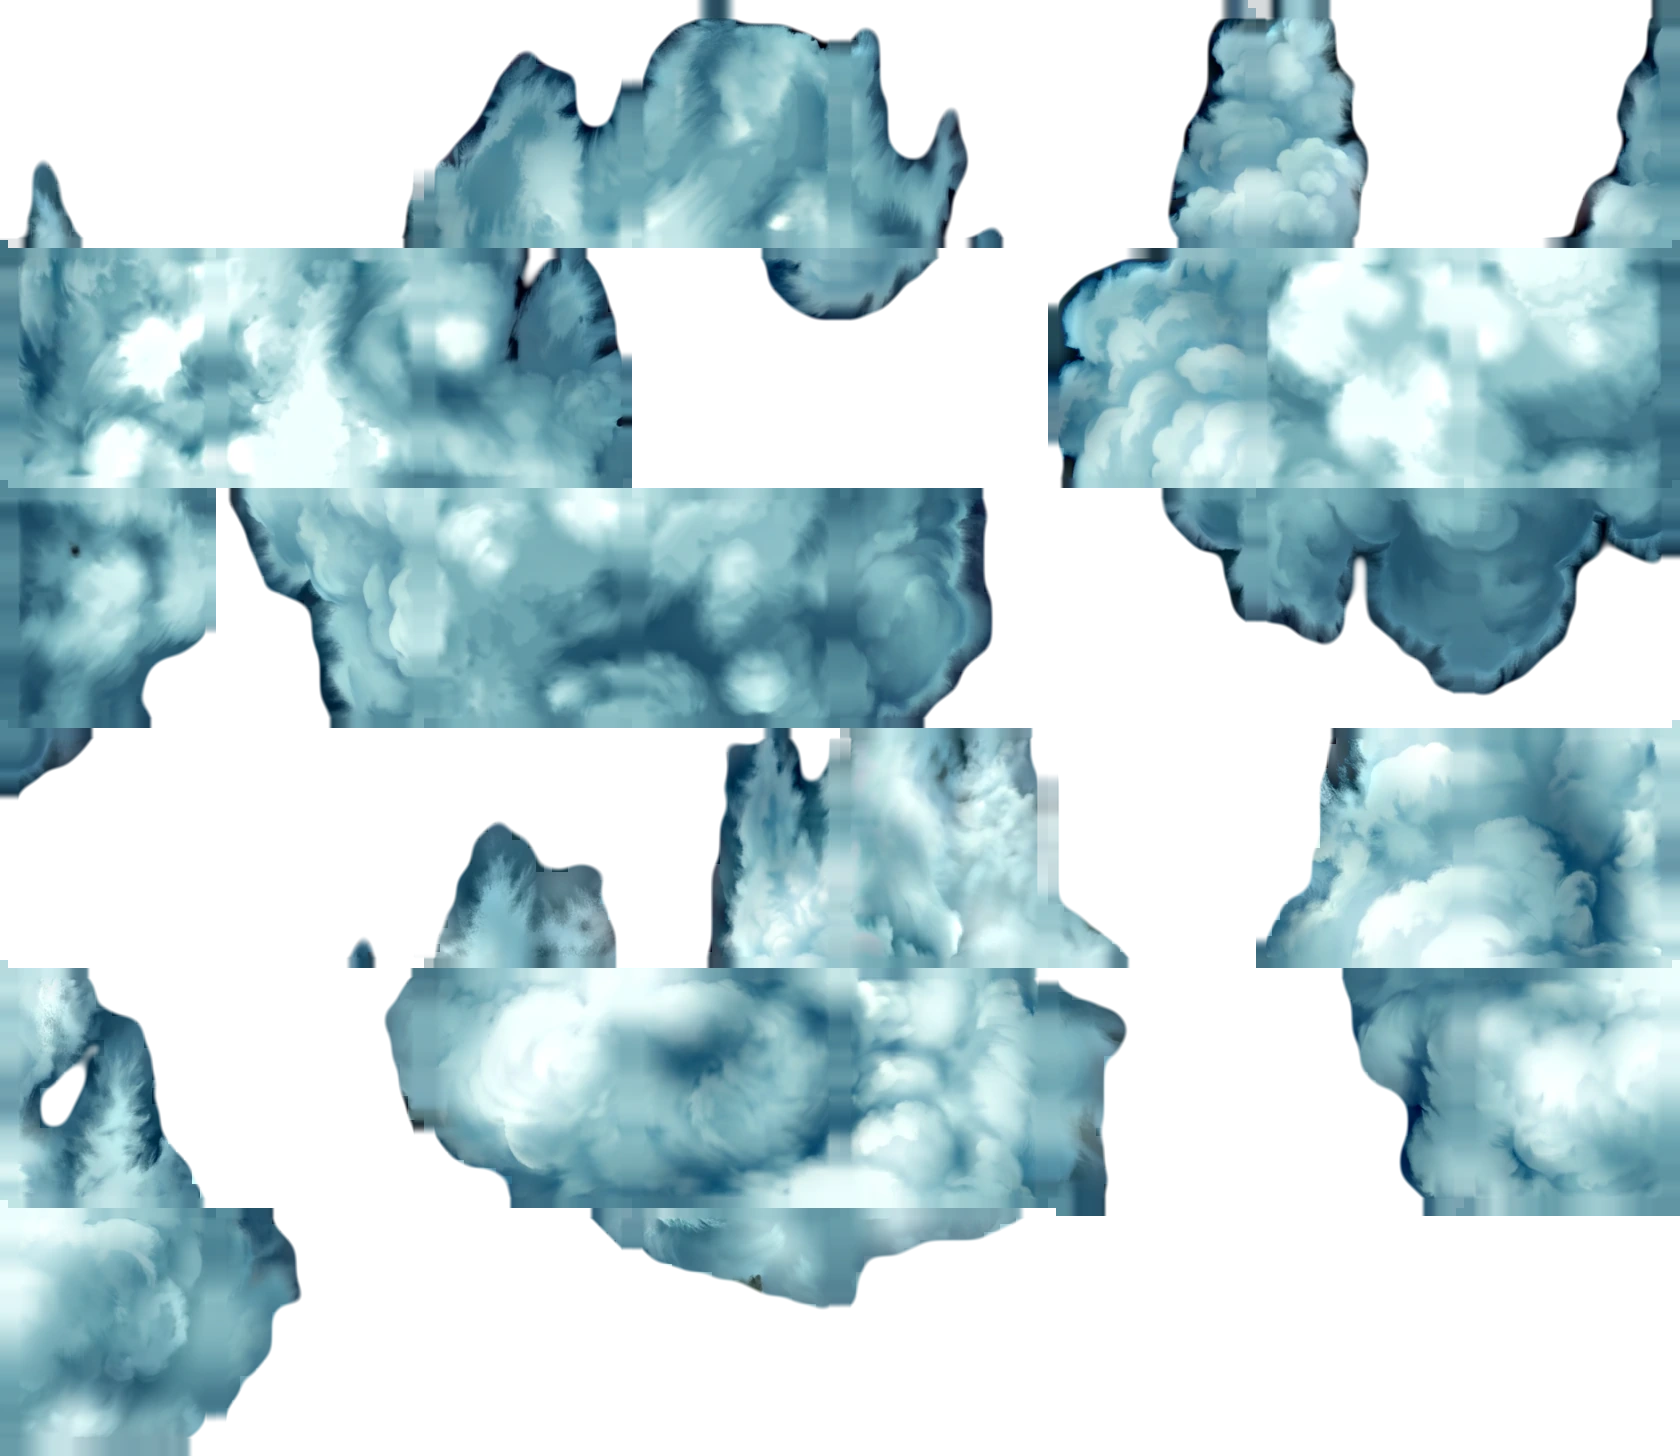
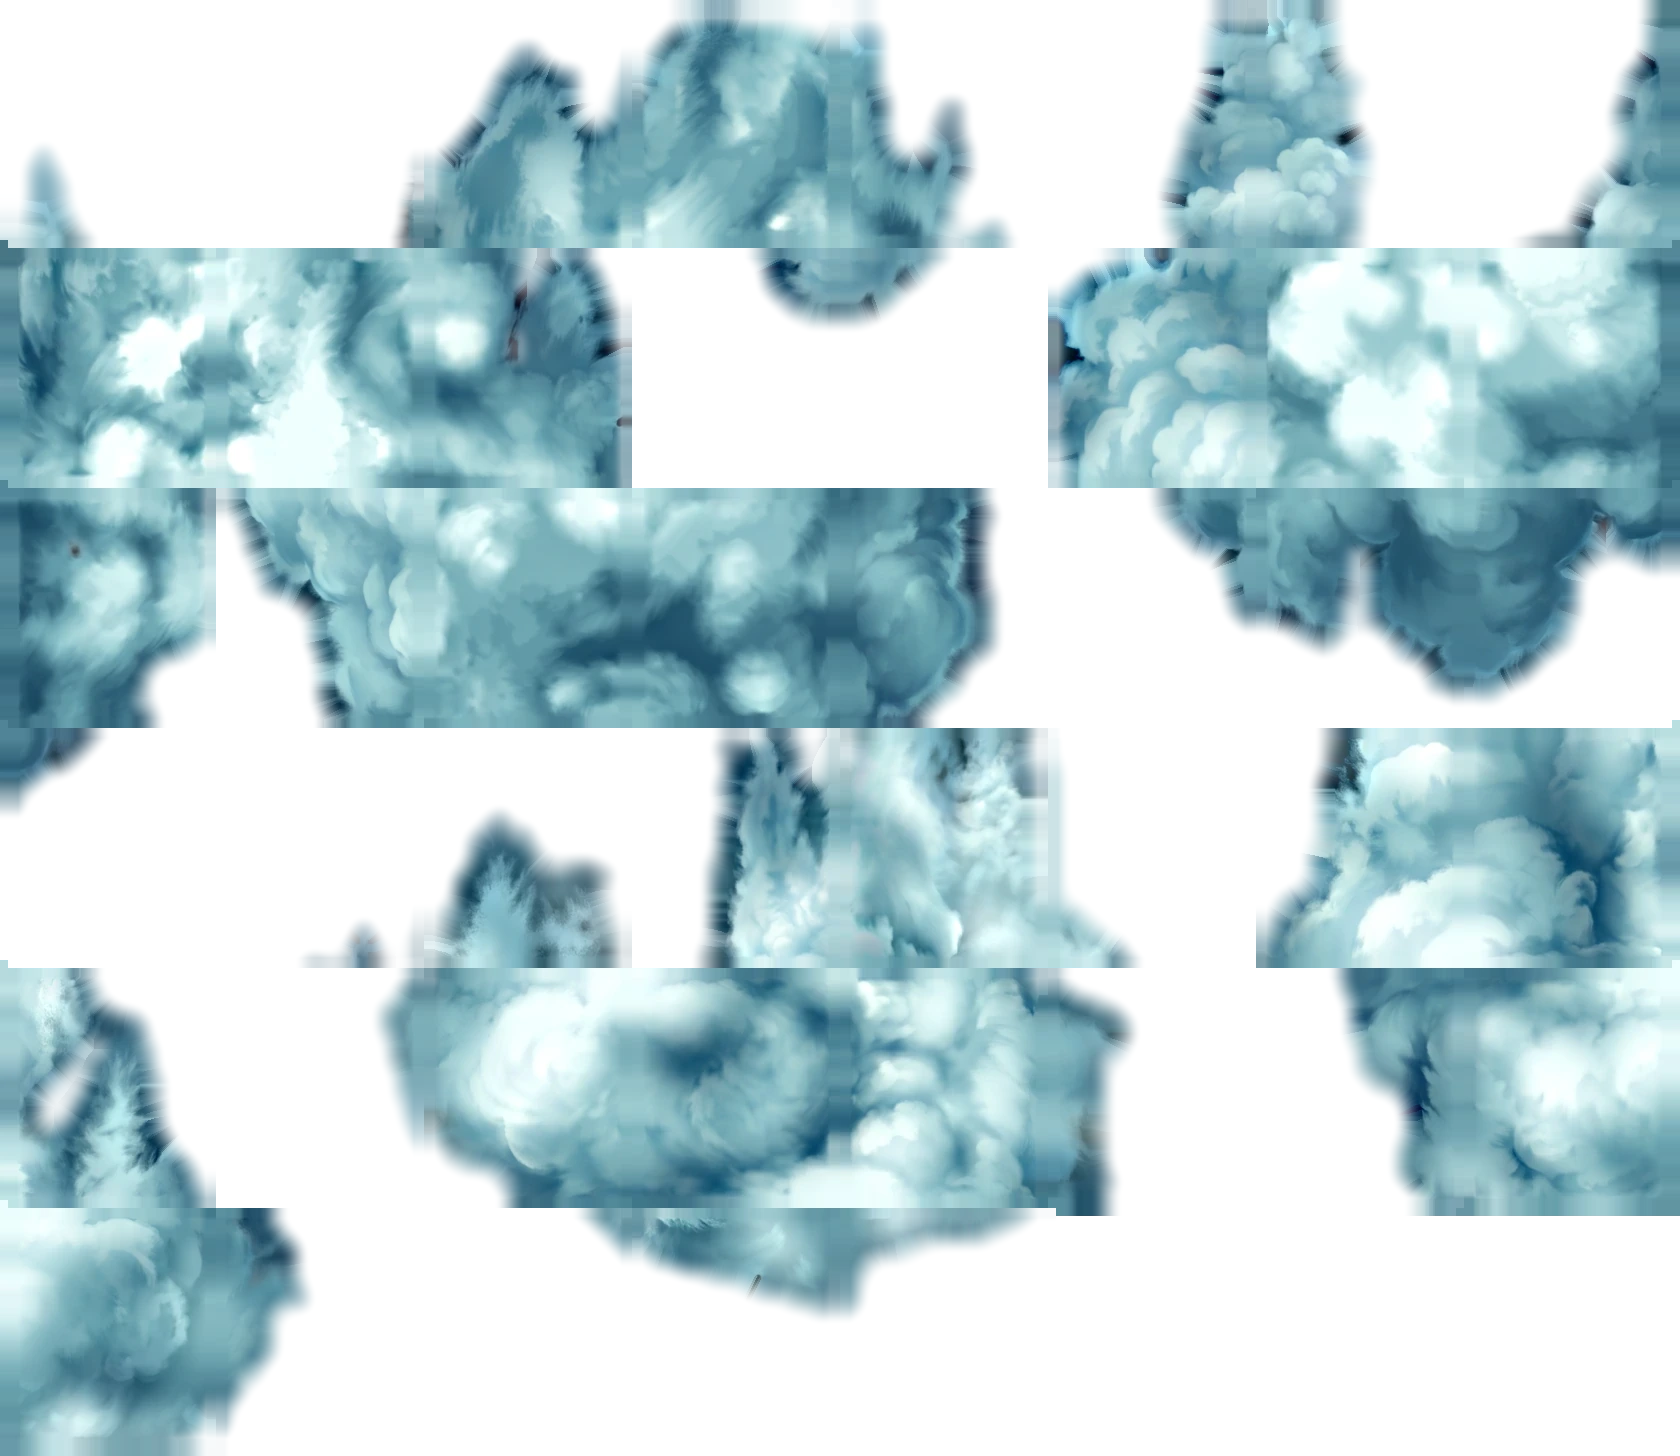
SOH JIN key shadow and SAVARA cloud edge: re-cut key alpha, feather layer-2 clouds, draw cutout tiles with their alpha (D132)
Claude-Session: https://claude.ai/code/session_01Tt7ZcrN2zwvXKGRkJHtp1H

diff --git a/src/render/remaster/terrainMaterial.ts b/src/render/remaster/terrainMaterial.ts
@@ -5,9 +5,9 @@
 //   the 4x ground (D34), receiving shadows;
 // - "blend" (draw_background_2_blend: TYRIAN's ice clouds, D45): translucent sheets at
 //   BLEND_ALPHA times the art's coverage, no depth write;
-// - "cutout" (background 3's islands and an opaque background 2 without models): the art's alpha
-//   cut at one half, writing depth and casting island-shaped shadows (a depth material that cuts the
-//   same way).
+// - "cutout" (background 3's islands and an opaque background 2 without models): drawn with the art's
+//   alpha (so the painted soft edge shows, D132) but writing depth like an opaque tile, and casting
+//   island-shaped shadows (a depth material that cuts the alpha at one half).
 //
 // Seam-free sampling: the texel position is clamped half a texel of the coarser mip level inside
 // the tile's rect (clampTerrainTexel), and the level chosen here (textureLod) is at most
@@ -42,7 +42,7 @@ export interface TerrainMaterialOptions {
 }
 
 export const TERRAIN_RELIEF = 1.2;
-/** The cutout kinds' alpha threshold. */
+/** The alpha threshold of the cutout kind's shadows. */
 const CUT = 0.5;
 
 const L = PALETTE_LUT_SIZE;
@@ -150,7 +150,7 @@ export function terrainMaterial(
     roughness: 0.9,
     metalness: 0,
     envMapIntensity: 0.25,
-    transparent: blended,
+    transparent: blended || kind === "cutout",
     depthWrite: !blended,
     userData: { outlineParameters: { visible: false } },
   });
@@ -195,7 +195,7 @@ float lod = terrainLod();
 vec4 tex = terrainSample(vTileTexel, lod);
 float cover = tex.a;
 vec3 painted = ${premultiplied ? "tex.rgb / max(cover, 1e-4)" : "tex.rgb"};
-${kind === "cutout" ? `if (cover < ${CUT.toFixed(2)}) discard;` : ""}
+${kind === "cutout" ? `if (cover < 0.004) discard;\ndiffuseColor.a = cover;` : ""}
 ${blended ? `if (cover < 0.004) discard;\ndiffuseColor.a = ${(opts.blend ?? 0.55).toFixed(3)} * cover;` : ""}
 diffuseColor.rgb *= terrainPalette(painted, vPassY, vScreenWater);
 vec2 reliefSlope = vec2(0.0);

diff --git a/src/render/drawListRenderer.ts b/src/render/drawListRenderer.ts
@@ -1124,6 +1124,7 @@ export class DrawListRenderer {
     const kind: TerrainKind = d.layer === 0 ? "ground" : blend ? "blend" : "cutout";
     const pool = this.hdPool(t.texture, kind, tileset!.scale, frame);
     if (blend) pool.mesh.renderOrder = blendSheetOrder(d.pass);
+    else if (kind === "cutout") pool.mesh.renderOrder = CUTOUT_ORDER;
     const s = pool.next(frame);
     const e = pool.extra.array as Float32Array;
     e[s * 2] = t.x;
@@ -1625,6 +1626,12 @@ function localBox(source: THREE.Object3D): THREE.Box3 {
 function blendSheetOrder(pass: Pass): number {
   return pass === Pass.Background2Top ? 1 : -1;
 }
+
+/**
+ * A "cutout" terrain tile is drawn with its soft alpha edge (D132), so it is translucent to three.js: before
+ * every other translucent draw (blend sheets, the flat sprite art, explosions are all above it).
+ */
+const CUTOUT_ORDER = -2;
 
 function groundQuad(): THREE.BufferGeometry {
   const g = new THREE.BufferGeometry();

diff --git a/tools/terrain_hd.py b/tools/terrain_hd.py
@@ -1329,7 +1329,8 @@ def alpha_from_level(lev: np.ndarray, ramp: float = ALPHA_RAMP) -> np.ndarray:
 
 
 def solve_alpha(T, layer: int, inv_tiles: dict, tiles, models: list[dict], min_pairs: int = ALPHA_MIN_PAIRS,
-                lam: float = LAMBDA, band_lo: float = BAND_LO, band_hi: float = BAND_HI, held=()) -> dict[int, np.ndarray]:
+                lam: float = LAMBDA, band_lo: float = BAND_LO, band_hi: float = BAND_HI, held=(),
+                smooth: float = ALPHA_SMOOTH, ramp: float = ALPHA_RAMP) -> dict[int, np.ndarray]:
     """Alpha (0..1) for each tile in `tiles` on layer 1-2, seamless across the levels' pairs: each tile's
     level field (alpha_level) has its edge strips solved jointly like the colour (solve_strips) over
     the pairs the levels' maps have at least `min_pairs` times, and moved onto them (apply_strips). A
@@ -1339,15 +1340,15 @@ def solve_alpha(T, layer: int, inv_tiles: dict, tiles, models: list[dict], min_p
     left out so a lone pairing of an empty edge with a full one doesn't drag cloud into the gap.
     `held`: tiles that keep their alpha (a merge's kept tiles, D83): their own level fields are held
     fixed, so the new tiles' edges are pulled onto them."""
-    off = 128.0  # apply_strips clips to 0..255; the level is within +-3 ALPHA_SMOOTH
-    lev = {n: (alpha_level(T, layer, n, inv_tiles[str(n)]["usual"]) + off)[..., None] for n in tiles}
-    fixed = {n: (alpha_level(T, layer, n, inv_tiles[str(n)]["usual"]) + off)[..., None]
+    off = 128.0  # apply_strips clips to 0..255; the level is within +-3 smooth (so smooth <= 40)
+    lev = {n: (alpha_level(T, layer, n, inv_tiles[str(n)]["usual"], smooth) + off)[..., None] for n in tiles}
+    fixed = {n: (alpha_level(T, layer, n, inv_tiles[str(n)]["usual"], smooth) + off)[..., None]
              for n in held if n not in lev and str(n) in inv_tiles}
     if band_lo > 0 or band_hi > 0:
         pairs = Counter({k: c for k, c in all_pairs(T.levels, layer, models, set(lev) | set(fixed)).items() if c >= min_pairs})
         strips = solve_strips(lev, pairs, lam, fixed=fixed or None)
         lev = {n: apply_strips(v, {side: strips[(n, side)] for side in OPPOSITE}, band_lo, band_hi) for n, v in lev.items()}
-    return {n: alpha_from_level(v[..., 0] - off) for n, v in lev.items()}
+    return {n: alpha_from_level(v[..., 0] - off, ramp) for n, v in lev.items()}
 
 
 def smoothstep(e0: float, e1: float, x: np.ndarray) -> np.ndarray:
@@ -1784,10 +1785,24 @@ def set_alpha(T, layer: int, inv_tiles: dict, done: dict[int, np.ndarray], model
               held=()) -> None:
     """Layers 1-2: each tile's alpha from solve_alpha (over all the levels' pairs; the `held` tiles,
     a merge's kept ones, pull the new tiles' edges and stay as they are), colour bled under it afresh."""
-    alphas = solve_alpha(T, layer, inv_tiles, done, models, args.alpha_min_pairs, args.lam, args.band_lo, args.band_hi, held)
+    alphas = solve_alpha(T, layer, inv_tiles, done, models, args.alpha_min_pairs, args.lam, args.band_lo, args.band_hi, held,
+                         getattr(args, "alpha_smooth", ALPHA_SMOOTH), getattr(args, "alpha_ramp", ALPHA_RAMP))
+    inset = getattr(args, "rim_inset", 0)
     for n, img in done.items():
+        if inset:
+            img[..., :3] = bleed(img[..., :3], inside_alpha(img[..., 3] / 255, inset))
         img[..., :3] = bleed(img[..., :3], alphas[n])
         img[..., 3] = alphas[n] * 255
+
+
+def inside_alpha(alpha: np.ndarray, inset: int) -> np.ndarray:
+    """`alpha` eroded by `inset` texels (a tile's edges count as inside: the cloud goes on in the next tile):
+    the part of the painting whose colour is kept when a wider soft edge is bled out of it (rim_inset), so
+    the original's dark outline colour under the old edge doesn't show through the new one."""
+    from scipy import ndimage
+
+    core = ndimage.binary_erosion(alpha > 0.98, iterations=inset, border_value=1)
+    return core.astype(np.float32)
 
 
 def cmd_realpha(args) -> None:
@@ -1805,8 +1820,9 @@ def cmd_realpha(args) -> None:
     if man is None:
         raise SystemExit(f"no atlas in {out_dir}")
     models = load_models(T.shapes_file)
+    only = {int(x) for x in args.layers.split(",")} if args.layers else None
     for layer, tiles in sorted(atlas.items()):
-        if layer == 0:
+        if layer == 0 or (only and layer not in only):
             continue
         inv_tiles = inv["layers"][str(layer)]["tiles"]
         done = {n: np.concatenate([bleed(t[..., :3], t[..., 3] / 255), t[..., 3:]], -1) for n, t in tiles.items() if str(n) in inv_tiles}
@@ -2408,6 +2424,11 @@ def main(argv: list[str] | None = None) -> None:
         p_.add_argument("--alpha-min-pairs", type=int, default=ALPHA_MIN_PAIRS, help=f"map pairs needed before two tiles' alpha edges are pulled together (default {ALPHA_MIN_PAIRS})")
     ra.add_argument("--out", default=str(ROOT / "public/art/terrain"), help="atlas root (default public/art/terrain)")
     ra.add_argument("--lossless", action="store_true", help="lossless WebP (default quality 92)")
+    ra.add_argument("--layers", help="only these layers, e.g. 2 (default: 1 and 2)")
+    ra.add_argument("--alpha-smooth", type=float, default=ALPHA_SMOOTH, help=f"texels the contour is smoothed at (default {ALPHA_SMOOTH}; at most 40)")
+    ra.add_argument("--alpha-ramp", type=float, default=ALPHA_RAMP, help=f"texels each side of the contour alpha goes 0 -> 1 over (default {ALPHA_RAMP})")
+    ra.add_argument("--rim-inset", type=int, default=0, help="texels in from the old edge whose colour is bled outwards, so the original's dark outline "
+                    "doesn't ring a wider soft edge (default 0: colour as it is)")
     ra.add_argument("--band-lo", type=float, default=BAND_LO, help=f"texels an alpha seam correction fades over (default {BAND_LO})")
     ra.add_argument("--band-hi", type=float, default=BAND_HI, help=f"texels at the edge set to the shared strip (default {BAND_HI})")
     ra.add_argument("--lam", type=float, default=LAMBDA, help=f"how much a strip keeps its own (default {LAMBDA})")

diff --git a/tools/flat_art.py b/tools/flat_art.py
@@ -160,6 +160,19 @@ def soft_alpha(mask: np.ndarray, sigma: float, lo: float, hi: float, scale: int 
     return t * t * (3 - 2 * t)
 
 
+def shadow_alpha(pic: np.ndarray, silhouette, spec: dict) -> tuple[np.ndarray, np.ndarray]:
+    """Alpha of a picture whose drop shadow is the palette indices spec["indices"]: the rest of the
+    picture as the silhouette, plus the shadow's pixels as a blurred translucent layer behind it.
+    Also the shadow's own texels (a mask), whose colour is drawn black instead of bled from the body."""
+    from scipy import ndimage
+
+    is_shadow = np.isin(pic, spec["indices"])
+    body = silhouette((pic >= 0) & ~is_shadow)
+    big = np.kron(is_shadow.astype(np.float32), np.ones((SCALE, SCALE), np.float32))
+    soft = np.clip(ndimage.gaussian_filter(big, spec.get("sigma", 5.0)) * 1.3, 0.0, 1.0)
+    return np.maximum(body, spec.get("strength", 0.4) * soft), np.kron(is_shadow, np.ones((SCALE, SCALE), bool))
+
+
 def bleed(rgb: np.ndarray, alpha: np.ndarray) -> np.ndarray:
     """Fill colour under alpha ~0 from the nearest visible texel, so bilinear filtering has no dark fringe."""
     from scipy import ndimage
@@ -455,6 +468,13 @@ def cut_sheet(gd: GameData, sheet: dict, art: np.ndarray, palette: int) -> list[
         spec = cell.get("alpha")
         silhouette = (lambda m: soft_alpha(m, spec["sigma"], spec["lo"], spec["hi"])) if spec else smooth_alpha
         alpha_pic = silhouette(pic >= 0)
+        # Inventory "shadow": {"indices": [160, 161], "strength": 0.4, "sigma": 5}: the original's drop
+        # shadow is pixels of those palette indices. They leave the silhouette; a soft shadow of the
+        # given strength (0..1, blurred by sigma texels) stays where they were (D132: the SOH JIN key).
+        shadow = cell.get("shadow")
+        shadow_pic = None
+        if shadow:
+            alpha_pic, shadow_pic = shadow_alpha(pic, silhouette, shadow)
         # A brightness floor from the original's own colours (inventory "floor": 0..1): where the art
         # is darker than the original pixel there, it's lifted to floor x the original colour. For
         # fire, whose painting may put dark smoke where the original has a thin bright ring.
@@ -480,6 +500,11 @@ def cut_sheet(gd: GameData, sheet: dict, art: np.ndarray, palette: int) -> list[
                 if under.shape[:2] == rgb.shape[:2]:
                     rgb = np.maximum(rgb, under)
             rgb = bleed(np.clip(rgb, 0, 1), alpha)
+            if shadow_pic is not None and whole and fr["sx"] == 1:
+                ty, tx = int(fr["ty"]), int(fr["tx"])
+                sh = shadow_pic[ty * SCALE:(ty + h) * SCALE, tx * SCALE:(tx + TILE_W) * SCALE]
+                if sh.shape == alpha.shape:  # the shadow is black, not the body's colour bled under it
+                    rgb = np.where((sh & (alpha < 0.98))[..., None], 0.0, rgb)
             rgba = np.dstack([rgb * 255, alpha * 255]).round().astype(np.uint8)
             out.append({"sheet": fr["sheet"], "index": fr["index"], "rgba": rgba, "fit": fit, "input": sheet["name"],
                         "cell": [cell["row"], cell["col"]], "mirrored": fr["sx"] < 0, "shared": fr["index"] != a["index"] and fr["sx"] > 0 and cell["art"]["size"] == 1})

diff --git a/DECISIONS.md b/DECISIONS.md
@@ -5676,3 +5676,41 @@ thicker ring).
 
 Test: `tests/render/explosionFade.test.ts`. Captures: `tyrian-scratch/qa2-renderer/` (`redbox-before/`,
 `redbox-after/`, `redbox-after/cmp_all.png`: left before, right after, one row per tick above).
+## D132 — Two flat-art fixes from the episode-1 QA sweep: the SOH JIN key's shadow, and SAVARA's cloud edge (extends D94, D107, D78)
+
+2026-11-10
+
+**Issue 11: the key sat on a black slab.** `tyrian.shp#10` 243 (a 2x2 object: 243, 244, 262, 263) is the SOH JIN key. The
+original sprite draws its own hard drop shadow in palette indices 160 and 161 (D94's notes, D114's note), and the cutter
+(`flat_art.py cut_sheet`) took the alpha from every non-transparent pixel, shadow included, so Gemini's painting of the
+key got a black offset silhouette. *Fix:* a new inventory cell field `"shadow": {"indices": [160, 161], "strength": 0.4,
+"sigma": 5}`: those pixels leave the silhouette (the key's own alpha, `smooth_alpha`), and where they were a soft shadow
+(the shadow mask blurred 5 texels, at 40% alpha, colour black, `shadow_alpha`) stays behind the key. Only the key's four
+frames changed: re-cut from the saved Gemini answer (`e1-pickups-10-2`, no new request) with `cut --merge`, so the
+manifest is unchanged and the one atlas `tyrian-shp-10.webp` is re-encoded (every kept frame goes through WebP again,
+as in any merge).
+
+**Issue 12: SAVARA's layer-2 clouds drew like stickers.** Not the alpha (the cut had already given layers 1-2 D78's
+smoothed contour): `terrainMaterial` drew the "cutout" kind (background 3, and an opaque background 2) with
+`if (cover < 0.5) discard`, so whatever soft edge the atlas had was cut off into a hard, anti-alias-free line. The C
+draws background 3 opaque (`draw_background_3` blits, no blend: only `draw_background_2_blend` blends), so the clouds
+stay opaque inside; only the edge changes. *Fix:*
+- **Shader.** "Cutout" tiles are drawn translucent with alpha = the art's coverage (discard under 0.004) but still write
+  depth, so models and sprites over them order as before; their shadow pass still cuts at one half. They draw before
+  every other translucent draw (`CUTOUT_ORDER` -2; blend sheets and the flat sprite art are at -1: with the clouds at
+  the default 0 the ring of an explosion over a pickup was painted over). This applies to every tileset's cutout tiles:
+  those whose alpha is D58's or D78's short ramp (+-2 texels at 8x) gain only an anti-aliased edge.
+- **Atlas.** `terrain_hd.py realpha` takes `--layers`, `--alpha-smooth`, `--alpha-ramp` and `--rim-inset`;
+  `shapesy` layer 2 was redone with `--layers 2 --alpha-ramp 14 --rim-inset 12` (smoothing stays D78's 8 texels,
+  the contour does not move; alpha goes 0 to 1 over +-14 texels, under two original pixels). `--rim-inset` bleeds the
+  colour of the cloud's interior (12 texels in from the old edge, tile borders counting as inside) outwards over the
+  edge band, so the original's dark outline colour that D78 kept doesn't ring a wide soft edge. Tried first: smoothing 20
+  with ramp 20, which rounded away the small peaks (the original's shape wins), and ramp 8 alone, which the discard
+  made no softer.
+- Layer 1 (`1.webp`) and the other tilesets' atlases are untouched.
+
+**Checked** in game (`?debug=play&episode=1&main=<section>&seed=1&skip=T&freezeAt=T`, 1920x1080), before/after in
+`tyrian-scratch/qa2-flat/cap/`: SAVARA sections 10 (1.12; t300, t1050, t1800), 29 (1.8; t300, t1050, t1800) and 38 (1.17;
+t300); SOH JIN section 31 (t4446). The explosion ring over a pickup on a cloud (1.12 t300) draws over the cloud.
+Not checked: other tilesets' cutout tiles in game (only their atlas alpha decides what changes); `&dpr` lower.
+Tests: `tests/tools`, `tests/render/terrainArt`, `spriteArt` pass. Fallback: `git checkout` the two atlases and revert the shader.
